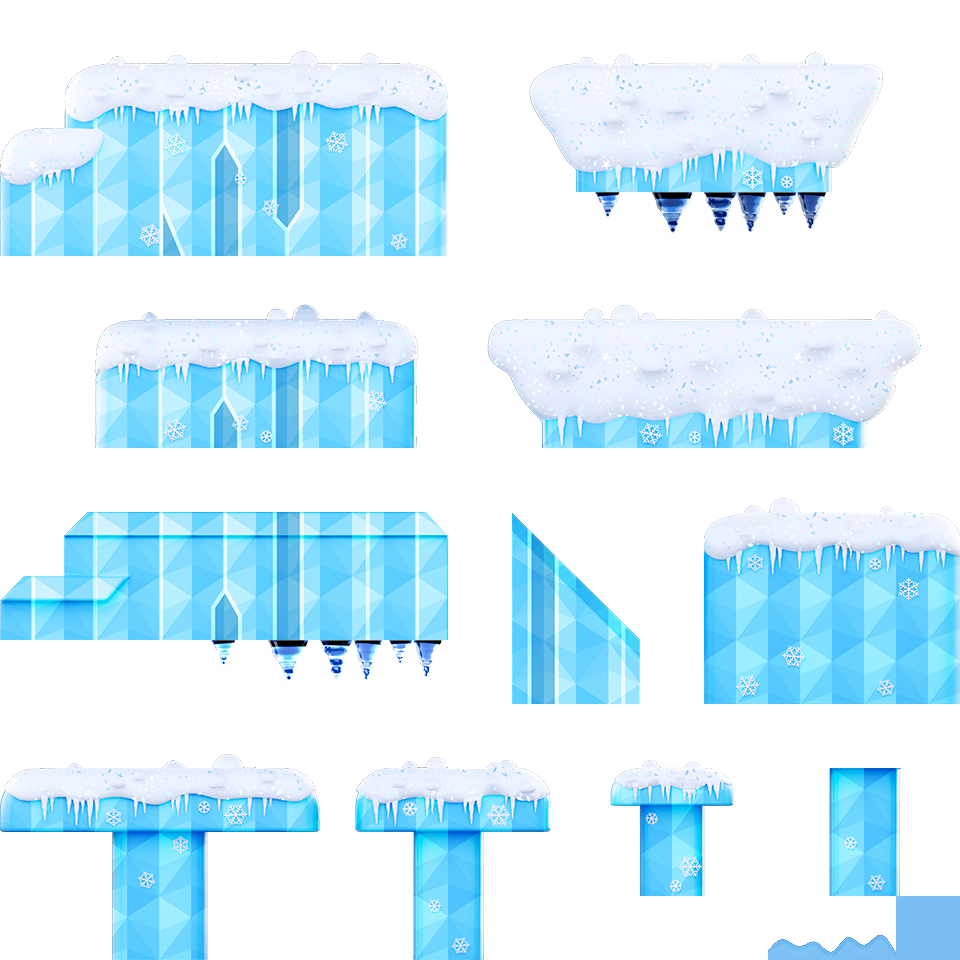
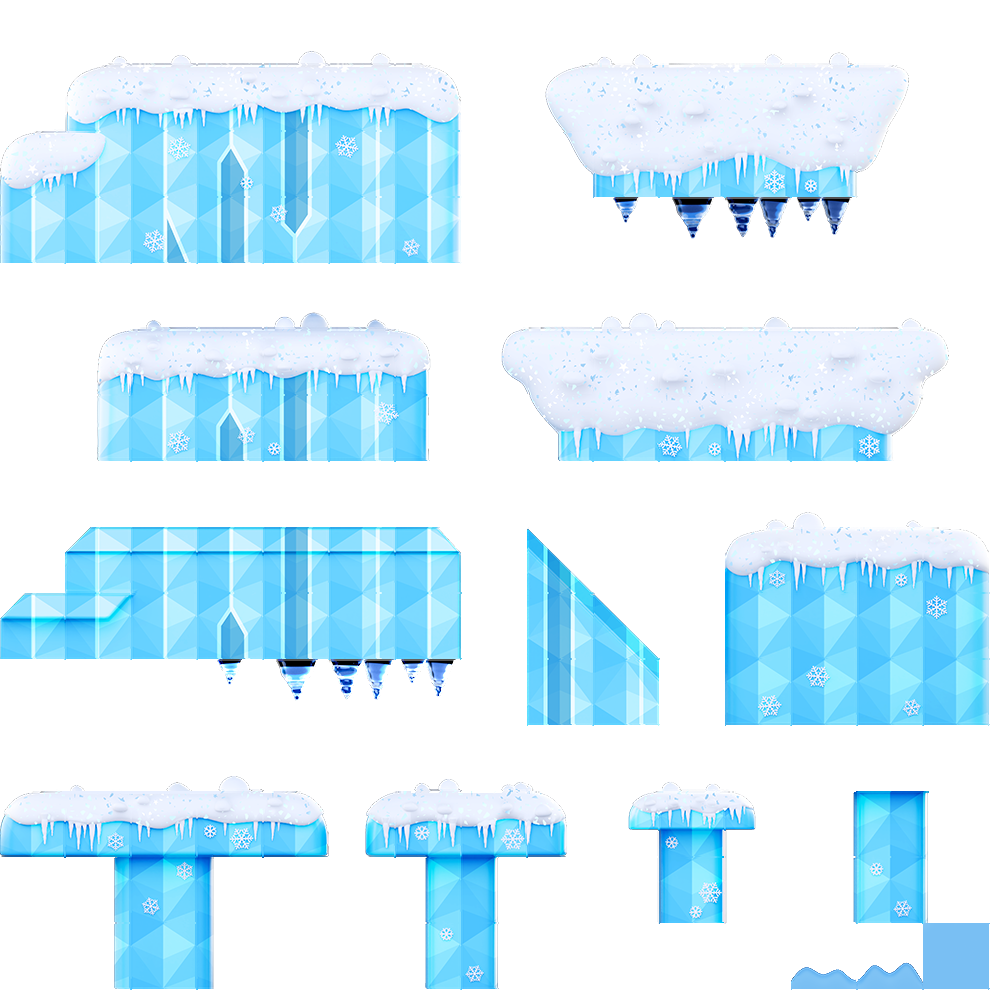
last level

diff --git a/assets/map/tiles/tile_mountain_ground_v03.tsx b/assets/map/tiles/tile_mountain_ground_v03.tsx
@@ -1,6 +1,6 @@
 <?xml version="1.0" encoding="UTF-8"?>
-<tileset version="1.10" tiledversion="1.10.2" name="tile_mountain_ground_v03" tilewidth="64" tileheight="64" tilecount="225" columns="15">
- <image source="tile_mountain_ground_v03.png" width="960" height="960"/>
+<tileset version="1.10" tiledversion="1.10.2" name="tile_mountain_ground_v03" tilewidth="64" tileheight="64" spacing="2" tilecount="225" columns="15">
+ <image source="tile_mountain_ground_v03.png" width="990" height="990"/>
  <tile id="19" type="Hazard"/>
  <tile id="54" type="Hazard"/>
  <tile id="55" type="Hazard"/>

diff --git a/assets/map/tiles/tile_clouds_v02.tsx b/assets/map/tiles/tile_clouds_v02.tsx
@@ -1,6 +1,6 @@
 <?xml version="1.0" encoding="UTF-8"?>
-<tileset version="1.10" tiledversion="1.10.2" name="tile_clouds_v02" tilewidth="64" tileheight="64" tilecount="72" columns="8">
- <image source="tile_clouds_v02.png" width="512" height="576"/>
+<tileset version="1.10" tiledversion="1.10.2" name="tile_clouds_v02" tilewidth="64" tileheight="64" spacing="4" tilecount="72" columns="8">
+ <image source="tile_clouds_v02.png" width="544" height="612"/>
  <tile id="0" type="Platform"/>
  <tile id="1" type="Platform"/>
  <tile id="2" type="Platform"/>

diff --git a/assets/map/tiles/tile_mountain_mountains_v01.tsx b/assets/map/tiles/tile_mountain_mountains_v01.tsx
@@ -1,4 +1,4 @@
 <?xml version="1.0" encoding="UTF-8"?>
-<tileset version="1.10" tiledversion="1.10.2" name="tile_mountain_mountains_v01" tilewidth="64" tileheight="64" tilecount="33" columns="11">
- <image source="tile_mountain_mountains_v01.png" width="704" height="192"/>
+<tileset version="1.10" tiledversion="1.10.2" name="tile_mountain_mountains_v01" tilewidth="64" tileheight="64" spacing="4" tilecount="33" columns="11">
+ <image source="tile_mountain_mountains_v01.png" width="748" height="204"/>
 </tileset>
